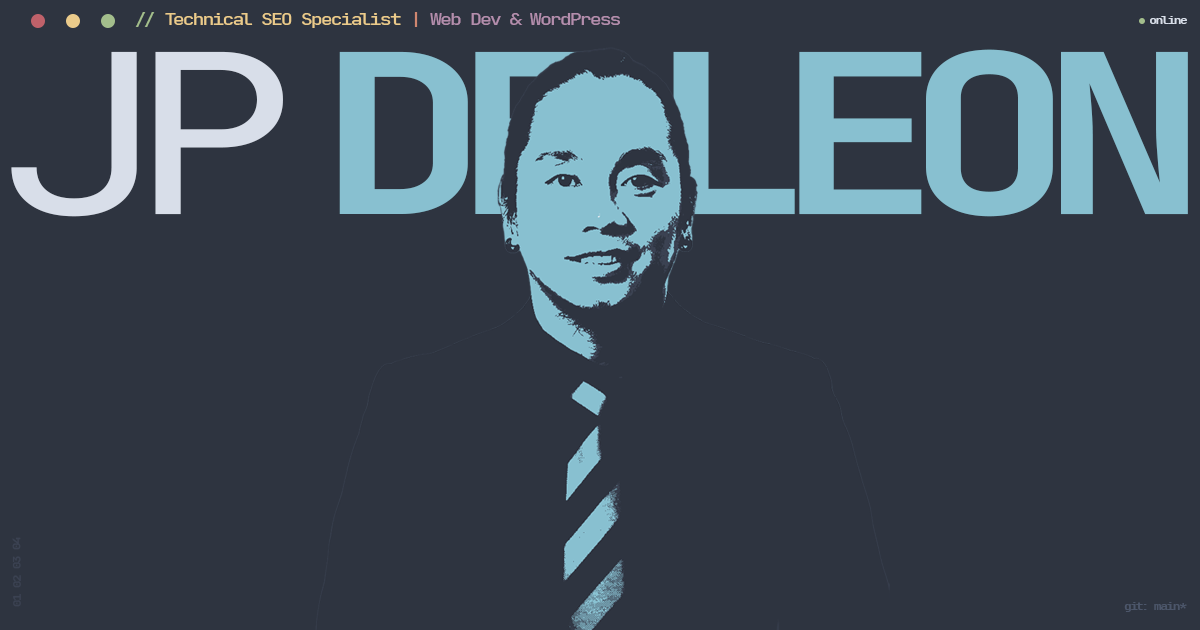
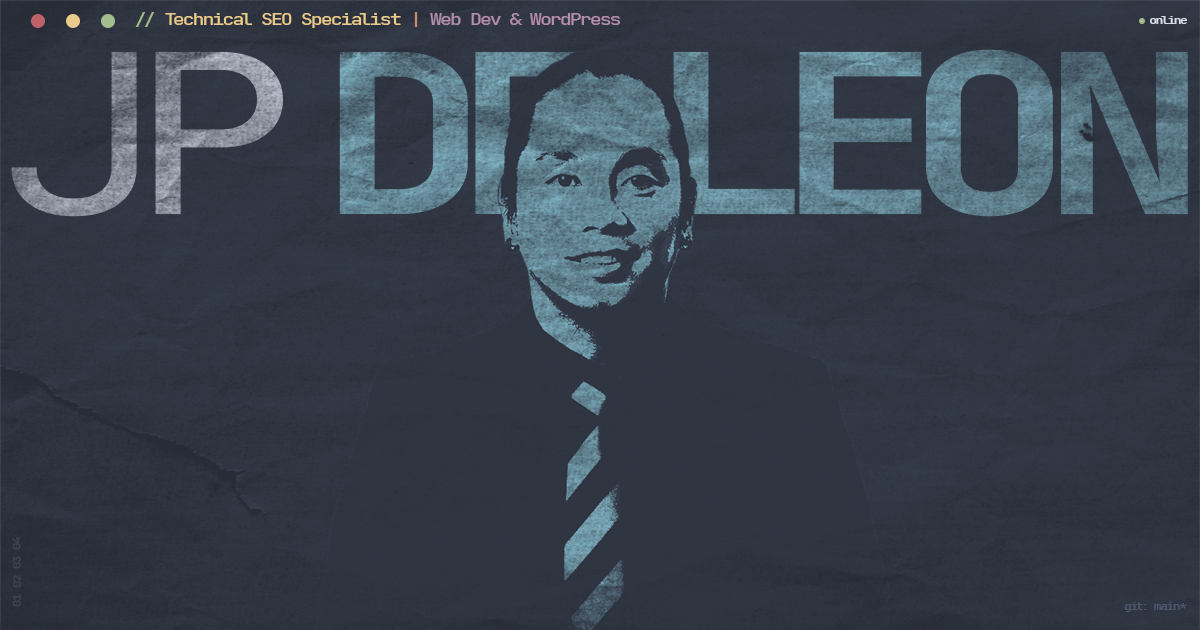
Update open graph image

diff --git a/index.html b/index.html
@@ -121,11 +121,13 @@
       </div>
 
       <div class="sidebar-header-block">
-    <h1>John Paul <span class="accent-text">De Leon</span></h1>
-    <div class="code-container">
-      <span class="punctuation">{"</span><span class="typed" data-typed-items="technicalSeoSpecialist, seoSpecialist, wordpressDeveloper, webDeveloper"></span><span class="punctuation">"}</span>
-    </div>
-  </div>
+        <h1>John Paul <span class="accent-text">De Leon</span></h1>
+        <div class="code-container">
+          <span class="punctuation">{"</span><span class="typed"
+            data-typed-items="technicalSeoSpecialist, seoSpecialist, wordpressDeveloper, webDeveloper"></span><span
+            class="punctuation">"}</span>
+        </div>
+      </div>
       <div class="sidebar-contact">
         <a href="mailto:jpleonard.deleon@gmail.com" class="sidebar-contact-item">
           <i class="bi bi-envelope"></i>
